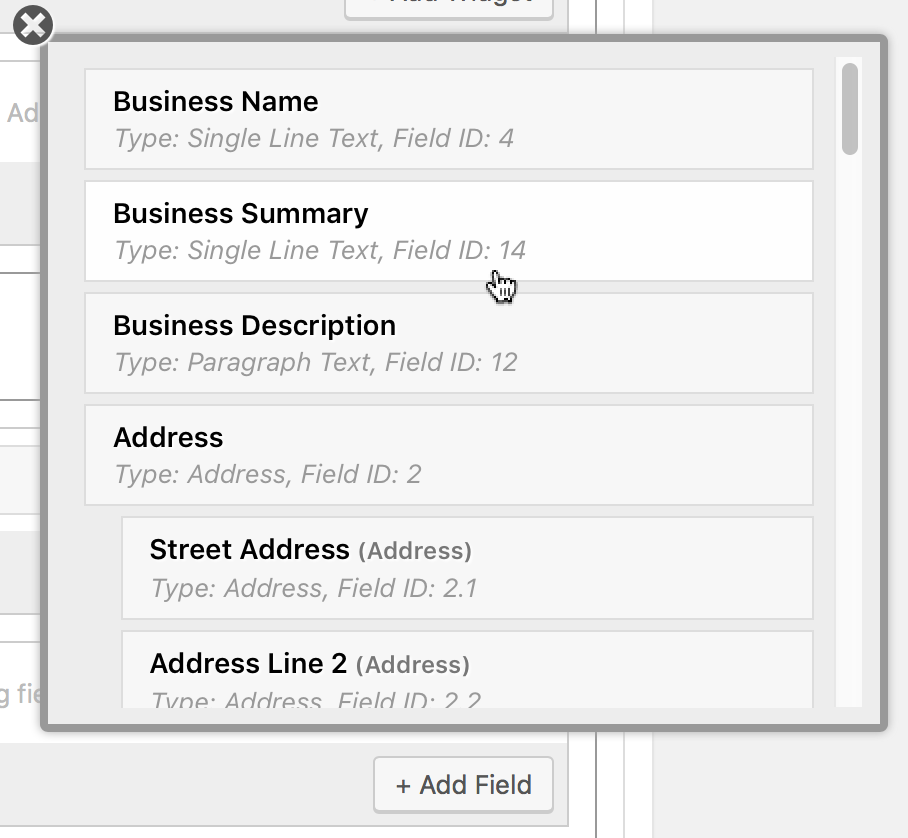
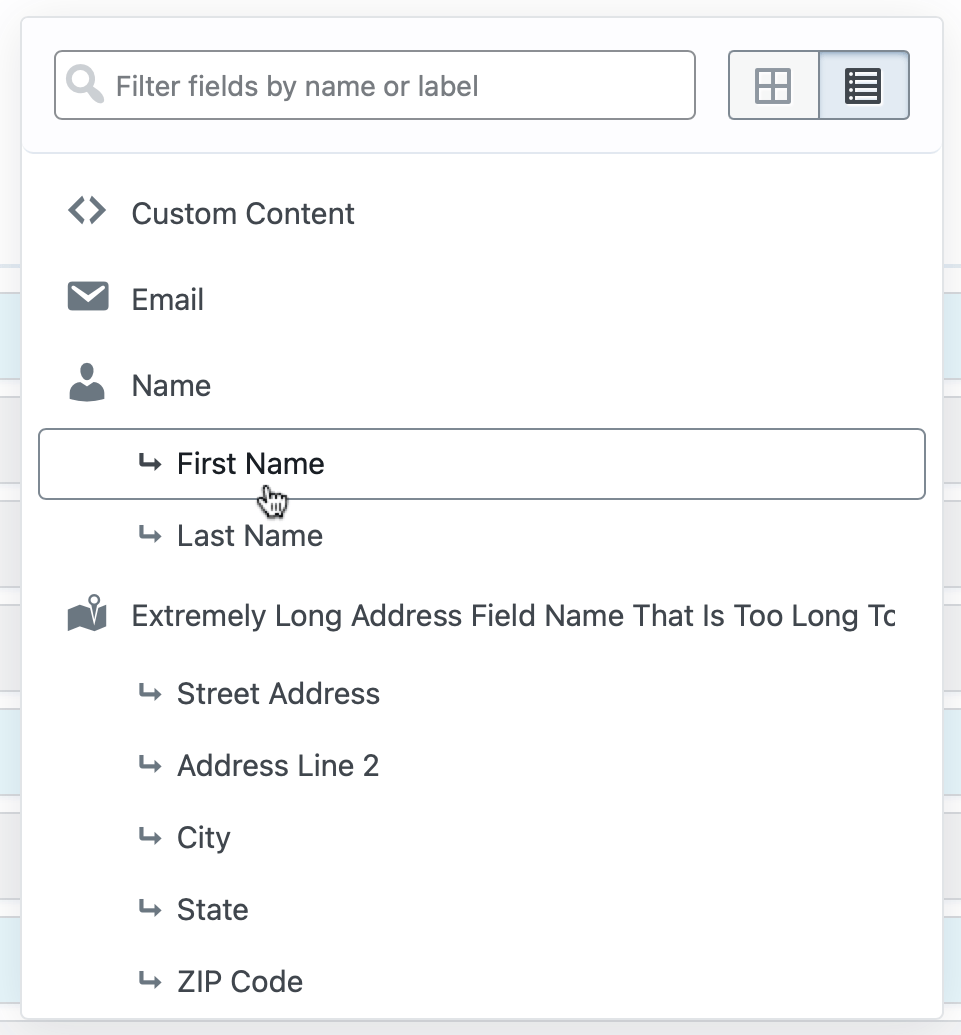
Update readme

diff --git a/includes/class-admin-welcome.php b/includes/class-admin-welcome.php
@@ -198,9 +198,19 @@ class GravityView_Welcome {
 
             <hr />
 
+			<div class="feature-section two-col has-2-columns is-fullwidth">
+				<div class="col column">
+					<h3>Embed Views in the Block Editor</h3>
+					<p>Embed Views using the "Add Shortcode" button above your content editor. <a href="https://docs.gravityview.co/article/73-using-the-shortcode">Learn how to use the <code>[gravityview]</code> shortcode.</a></p>
+				</div>
+				<div class="col column">
+					<img src="<?php echo plugins_url( 'assets/images/screenshots/shortcode-block.png', GRAVITYVIEW_FILE ); ?>" alt="Screenshot of the Shortcode block" />
+				</div>
+			</div>
+
             <div class="feature-section two-col has-2-columns is-fullwidth">
                 <div class="col column">
-                    <h3>Embed Views in Posts &amp; Pages</h3>
+                    <h3>Embed Views in Classic Editor</h3>
                     <p>Views don&rsquo;t need to be embedded in a post or page, but you can if you want. Embed Views using the "Add View" button above your content editor.</p>
                 </div>
                 <div class="col column">
@@ -245,25 +255,93 @@ class GravityView_Welcome {
 
 			<?php $this->tabs(); ?>
 
-            <div class="feature-section col two-col has-2-columns is-fullwidth" style="padding: 0;">
+            <div class="feature-section col two-col has-2-columns is-fullwidth">
 				<div class="column col col-2">
-					<div class="media-container"><img alt="Gravity Forms" src="<?php echo plugins_url( 'assets/images/screenshots/gravityforms.png', GRAVITYVIEW_FILE ); ?>" style="border: none"></div>
-					<h4 class="higher">New: Gravity Forms Widget</h4>
-					<p>If you want to allow easily adding new entries to your View, it&rsquo;s now simple to embed a Gravity Forms form as a Widget: click "Add Widget" and select Gravity Forms. Configure the widget, and you&rsquo;re all set.</p>
+					<p>We&rsquo;ve revamped the GravityView admin. It&rsquo;s easier to use, better organized, and it looks great!</p>
+					<h4>Here&rsquo;s a tour of the top 5 new features in 2.10:</h4>
+					<ol class="ol-decimal">
+						<li>A new field picker has a grid and list mode for browsing or quick selection.</li>
+						<li>The Field Details section comes in really handy while building a View</li>
+						<li>Custom Content field has a code editor built-in!</li>
+						<li>Export TSV and CSV</li>
+						<li>We&rsquo;re bundling a brand-new lightbox script!</li>
+					</ol>
 				</div>
-	            <div class="column col col-2">
-		            <div class="media-container"><img alt="Gravatar" src="<?php echo plugins_url( 'assets/images/screenshots/gravatar.jpg', GRAVITYVIEW_FILE ); ?>" style="border: none"></div>
-		            <h4 class="higher">Gravatar field</h4>
-		            <p>Gravatars are images that represent you online. They're associated with email addresses and can be managed at <a href="https://gravatar.com">Gravatar.com</a>. Now, GravityView has a Gravatar
-		            field where you can choose to show the Gravatar of the entry creator or the image associated with a submitted email.</p>
-	            </div>
+				<div class="column col col-2 last">
+					<iframe src="https://player.vimeo.com/video/521626074" width="640" height="360" frameborder="0" allow="autoplay; fullscreen; picture-in-picture" allowfullscreen></iframe>
+				</div>
             </div>
 
-			<div class="changelog point-releases" style="border-bottom: 0">
+			<div class="changelog point-releases" style="margin-top: 3em; border-bottom: 0">
 
                 <div class="headline-feature" style="max-width: 100%">
                     <h2 style="border-bottom: 1px solid #ccc; padding-bottom: 1em; margin-bottom: 0; margin-top: 0"><?php esc_html_e( 'What&rsquo;s New', 'gravityview' ); ?></h2>
                 </div>
+
+				<h3>Version 2.10 on March 9, 2021</h3>
+
+				<ul>
+					<li>A beautiful visual refresh for the View editor!
+						<ul>
+							<li>Brand new field picker for more easily creating your View</li>
+							<li>Visually see when Single Entry and Edit Entry layouts haven't been configured</li>
+							<li>See at a glance which fields link to Single Entry and Edit Entry</li>
+							<li>Manage and activate layouts from the View editor</li>
+							<li>Added: Show a notice when "Show only approve entries" setting is enabled for a View and no entries are displayed because of the setting</li>
+							<li>Added: Custom Content now supports syntax highlighting, making it much easier to write HTML (to disable, click on the Users sidebar menu, select Profile. Check the box labeled "Disable syntax highlighting when editing code" and save your profile)</li>
+							<li>Added: Warning when leaving Edit View screen if there are unsaved changes</li>
+							<li>Added: See the details of the current field while configuring field settings</li>
+							<li>Added: "Clear all" link to remove all fields from the View editor at once</li>
+							<li>Fixed: It was possible to drag and drop a field while the field settings screen was showing. Now it's not!</li>
+							<li>Fixed: See when fields have been deleted from a form</li>
+						</ul></li>
+					<li>New: Brand-new lightbox script, now using <a href="http://fancyapps.com/fancybox/3/">Fancybox</a>. It's fast, it's beautiful, and mobile-optimized.
+						<ul>
+							<li>Fixes issue with Gravity Forms images not loading in lightboxes due to secure URLs</li>
+						</ul></li>
+					<li>Ready for Gravity Forms 2.5!</li>
+					<li>Added: Better support for the Consent field</li>
+					<li>Improved layout of the Manage Add-Ons screen
+						<ul>
+							<li>Added a "Refresh" link to the Manage Add-Ons screen. This is helpful if you've upgraded your license and are ready to get started!</li>
+							<li>Allow enabling/disabling installed add-ons regardless of license status</li>
+						</ul></li>
+					<li>Added: A dropdown in the "All Views" screen to filter Views by the layout (Table, List, DataTables, DIY, Map, etc.)</li>
+					<li>Added: Export entries in TSV format by adding <code>/tsv/</code> to the View URL</li>
+					<li>Fixed: Approval Status field contains HTML in CSV and TSV exports</li>
+					<li>Fixed: Updating an entry associated with an unactivated user (Gravity Forms User Registration) would also change entry creator's information</li>
+					<li>Fixed: PHP warning <code>The magic method must have public visibility</code> appearing in PHP 8.0</li>
+					<li>Fixed: PHP notice <code>Undefined property: stdClass::$icons</code> appearing on Plugins page</li>
+				</ul>
+
+				<p><strong>Developer Updates:</strong></p>
+
+				<ul>
+					<li>New: FancyBox is now being used for the lightbox
+						<ul>
+							<li>Thickbox is no longer used</li>
+							<li>Modify settings using <code>gravityview/lightbox/provider/fancybox/settings</code></li>
+							<li><a href="https://fancyapps.com/fancybox/3/docs/#options">See options available here</a></li>
+							<li>If you prefer, a <a href="https://github.com/gravityview/gv-snippets/tree/addon/featherlight-lightbox">Featherlight lightbox option is available</a></li>
+							<li>Easily add support for your own lightbox script by extending the new <code>GravityView_Lightbox_Provider</code> abstract class (the <a href="https://github.com/gravityview/gv-snippets/tree/addon/featherlight-lightbox">Featherbox lightbox script</a> is a good example).</li>
+							<li>Modified: Formally deprecated the mis-spelled <code>gravity_view_lightbox_script</code> and <code>gravity_view_lightbox_style</code> filters in favor of  <code>gravityview_lightbox_script</code> and <code>gravityview_lightbox_style</code> (finally!)</li>
+							<li>Fixed: <code>gravityview_lightbox_script</code> filter wasn't being applied</li>
+							<li>Removed <code>gravityview/fields/fileupload/allow_insecure_lightbox</code> filter, since it's no longer needed</li>
+						</ul></li>
+					<li>Modified: <code>$_GET</code> args are now passed to links by default.
+						<ul>
+							<li>Added: Prevent entry links (single, edit, duplicate) from including $_GET query args by returning false to the filter <code>gravityview/entry_link/add_query_args</code></li>
+							<li>Added: Prevent entry links being added to <em>delete</em> links by returning false to the filter <code>gravityview/delete-entry/add_query_args</code></li>
+						</ul></li>
+					<li>Added: <code>gv_get_query_args()</code> function to return $_GET query args, with reserved args removed
+						<ul>
+							<li>Added: <code>gravityview/api/reserved_query_args</code> filter to modify internal reserved URL query args</li>
+						</ul></li>
+					<li>Added: <code>field-is_approved-html.php</code> and <code>field-is_approved-csv.php</code> template files for the Is Approved field</li>
+					<li>Modified: Removed</li>
+					<li>Modified: <code>templates/fields/field-entry_link-html.php</code> template to add <code>gv_get_query_args()</code> functionality</li>
+					<li>Breaking CSS change: Removed <code>.gv-list-view</code> CSS class from the List layout container <code>&lt;div&gt;</code>. The CSS class was also used in the looped entry containers, making it hard to style. This issue was introduced in GravityView 2.0. For background, see <a href="https://github.com/gravityview/GravityView/issues/1026">the GitHub issue</a>.</li>
+				</ul>
 
 				<h3>2.9.4 on January 25, 2021</h3>
 
@@ -386,47 +464,6 @@ class GravityView_Welcome {
 					<li>Fixed: License not able to be activated when using the <code>GRAVITYVIEW_LICENSE_KEY</code> constant</li>
 					<li>Fixed: Potential PHP warning when using the <code>{created_by}</code> Merge Tag</li>
 					<li>Modified: Added index of the current file in the loop to the <code>gravityview/fields/fileupload/file_path</code> filter</li>
-				</ul>
-
-				<h3>2.8.1 on April 22, 2020</h3>
-
-				<ul>
-					<li>Added: Better inline documentation for View Settings</li>
-					<li>Improved: When clicking "Add All Form Fields" in the "+ Add Field" picker</li>
-					<li>Modified: Changed default settings for new Views to "Show only approved entries"</li>
-					<li>Modified: When adding a field to a table-based layout, "+ Add Field" now says "+ Add Column"</li>
-					<li>Fixed: Single Entry "Hide empty fields" not working in Table and DataTables layouts</li>
-				</ul>
-
-				<h3>2.8 on April 16, 2020 </h3>
-
-				<ul>
-					<li>Added: User Fields now has many more options, including avatars, first and last name combinations, and more</li>
-					<li>Added: A new <a href="https://en.gravatar.com">Gravatar (Globally Recognized Avatar)</a> field</li>
-					<li>Added: "Display as HTML" option for Paragraph fields - By default, safe HTML will be shown. If disabled, only text will be shown.</li>
-					<li>Added: Support for Gravity Forms Partial Entries Add-On. When editing an entry, the entry's "Progress" will now be updated.</li>
-					<li>Modified: Sort forms by title in Edit View, rather than Date Created (thanks, Rochelle!)</li>
-					<li>Modified: The <a href="https://docs.gravityview.co/article/281-the-createdby-merge-tag"><code>{created_by}</code> Merge Tag</a>
-						<ul>
-							<li>When an entry was created by a logged-out user, <code>{created_by}</code> will now show details for a logged-out user (ID <code>0</code>), instead of returning an unmodified Merge Tag</li>
-							<li>When <code>{created_by}</code> is passed without any modifiers, it now will return the ID of the user who created the entry</li>
-							<li>Fixed PHP warning when <code>{created_by}</code> Merge Tag was passed without any modifiers</li>
-						</ul></li>
-					<li>Fixed: The "Single Entry Title" setting was not working properly</li>
-					<li>Fixed: Recent Entries widget filters not being applied</li>
-					<li>Updated translations: Added Formal German translation (thanks, Felix K!) and updated Polish translation (thanks, Dariusz!)</li>
-				</ul>
-
-				<p><strong>Developer Updates:</strong></p>
-
-				<ul>
-					<li>Added: <code>gravityview/fields/textarea/allow_html</code> filter to toggle whether Paragraph field output should allow HTML or should be sanitized with <code>esc_html()</code></li>
-					<li>Added: <code>gravityview/field/created_by/name_display</code> filter for custom User Field output.</li>
-					<li>Added: <code>gravityview/field/created_by/name_display/raw</code> allow raw (unescaped) output for <code>gravityview/field/created_by/name_display</code>.</li>
-					<li>Added: <code>gravityview/fields/gravatar/settings</code> filter to modify the new Gravatar field's settings</li>
-					<li>Added: <code>gravityview/search/sieve_choices</code> filter in Version 2.5 that enables only showing choices in the Search Bar that exist in entries (<a href="https://docs.gravityview.co/article/701-show-choices-that-exist">learn more about this filter</a>)</li>
-					<li>Modified: <code>gravityview_get_forms()</code> and <code>GVCommon::get_forms()</code> have new <code>$order_by</code> and <code>$order</code> parameters (Thanks, Rochelle!)</li>
-					<li>Fixed: <code>gravityview/edit_entry/user_can_edit_entry</code> and <code>gravityview/capabilities/allow_logged_out</code> were not reachable in Edit Entry and Delete Entry since Version 2.5</li>
 				</ul>
 
 				<p style="text-align: center;">

diff --git a/includes/class-admin-views.php b/includes/class-admin-views.php
@@ -955,7 +955,7 @@ class GravityView_Admin_Views {
 					<?php foreach( $areas as $area ) : 	?>
 
 						<div class="gv-droppable-area" data-areaid="<?php echo esc_attr( $zone .'_'. $area['areaid'] ); ?>" data-context="<?php echo esc_attr( $zone ); ?>">
-                            <p class="gv-droppable-area-title">
+                            <p class="gv-droppable-area-title" <?php if ( 'widget' === $type && empty( $area['subtitle'] ) ) { echo ' style="margin: 0; padding: 0;"'; } ?>>
 								<strong <?php if ( 'widget' === $type ) { echo 'class="screen-reader-text"'; } ?>><?php echo esc_html( $area['title'] ); ?></strong>
 
 								<?php if ( 'widget' !== $type ) { ?>
